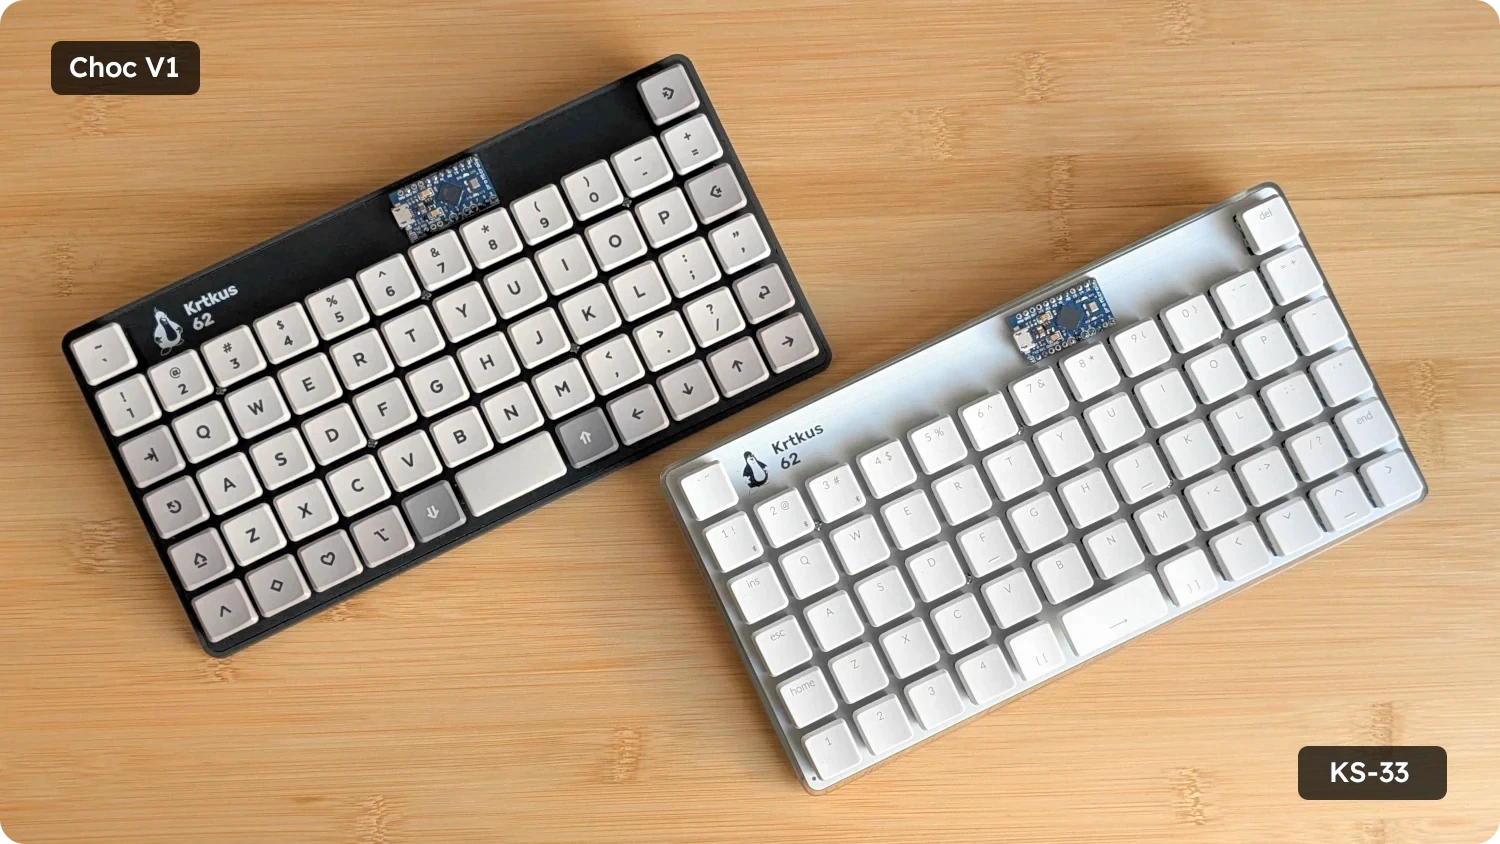
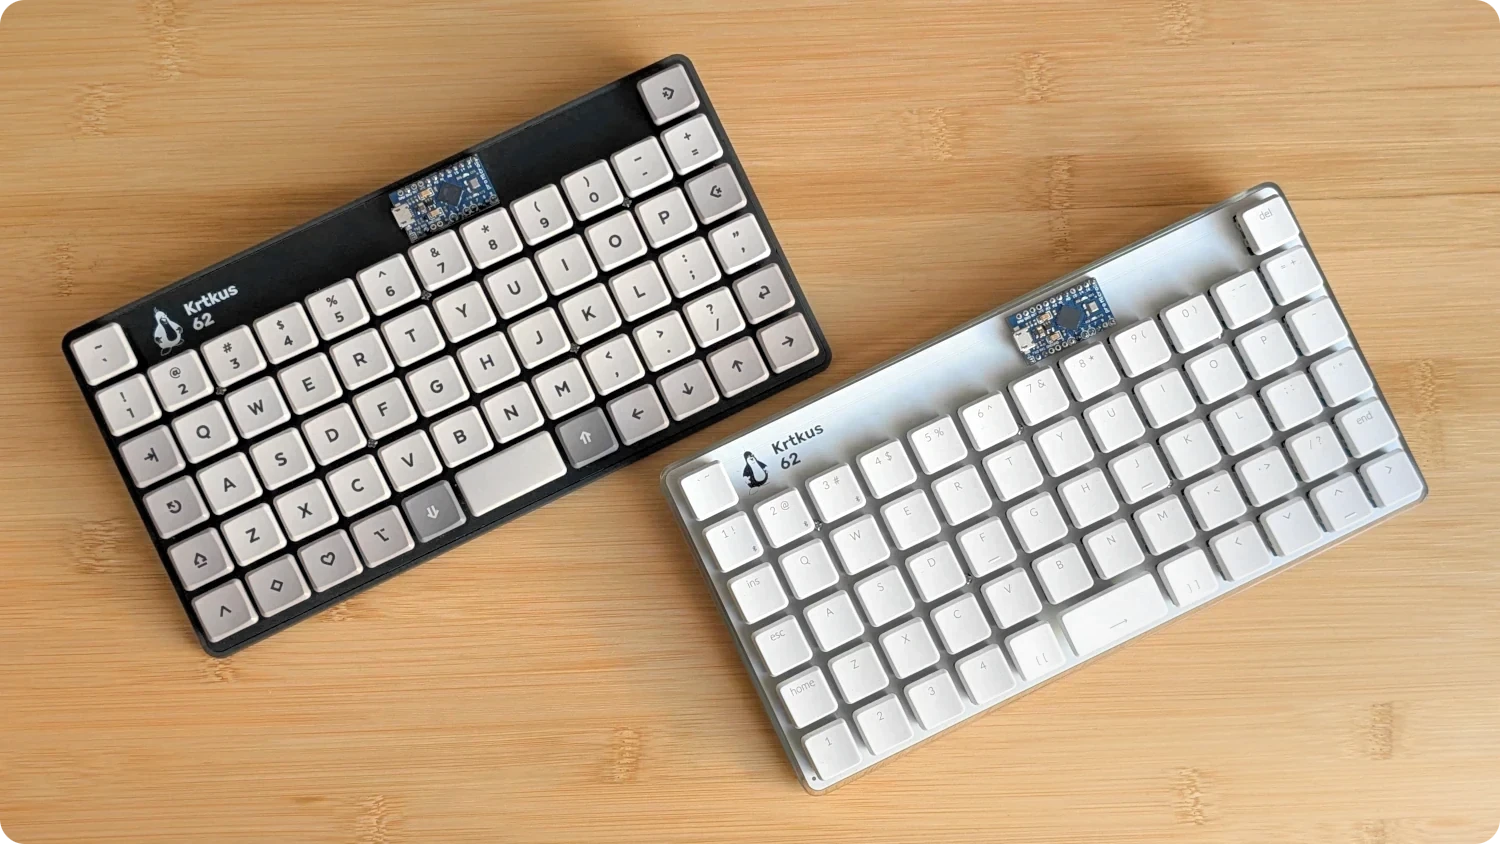
readme

Changed region(s): [[0.8587, 0.8626, 0.9813, 0.955], [0.0307, 0.0308, 0.1533, 0.1232]]

diff --git a/README.md b/README.md
@@ -1,5 +1,7 @@
 <p align="center">
     <a href="https://raw.githubusercontent.com/swift502/Krtkus/refs/heads/main/images/1.webp"><img src="images/1.webp"></a>
+    <br>
+	<span>Left: Choc V1, Right: KS-33</span>
 </p>
 
 # Krtkus
